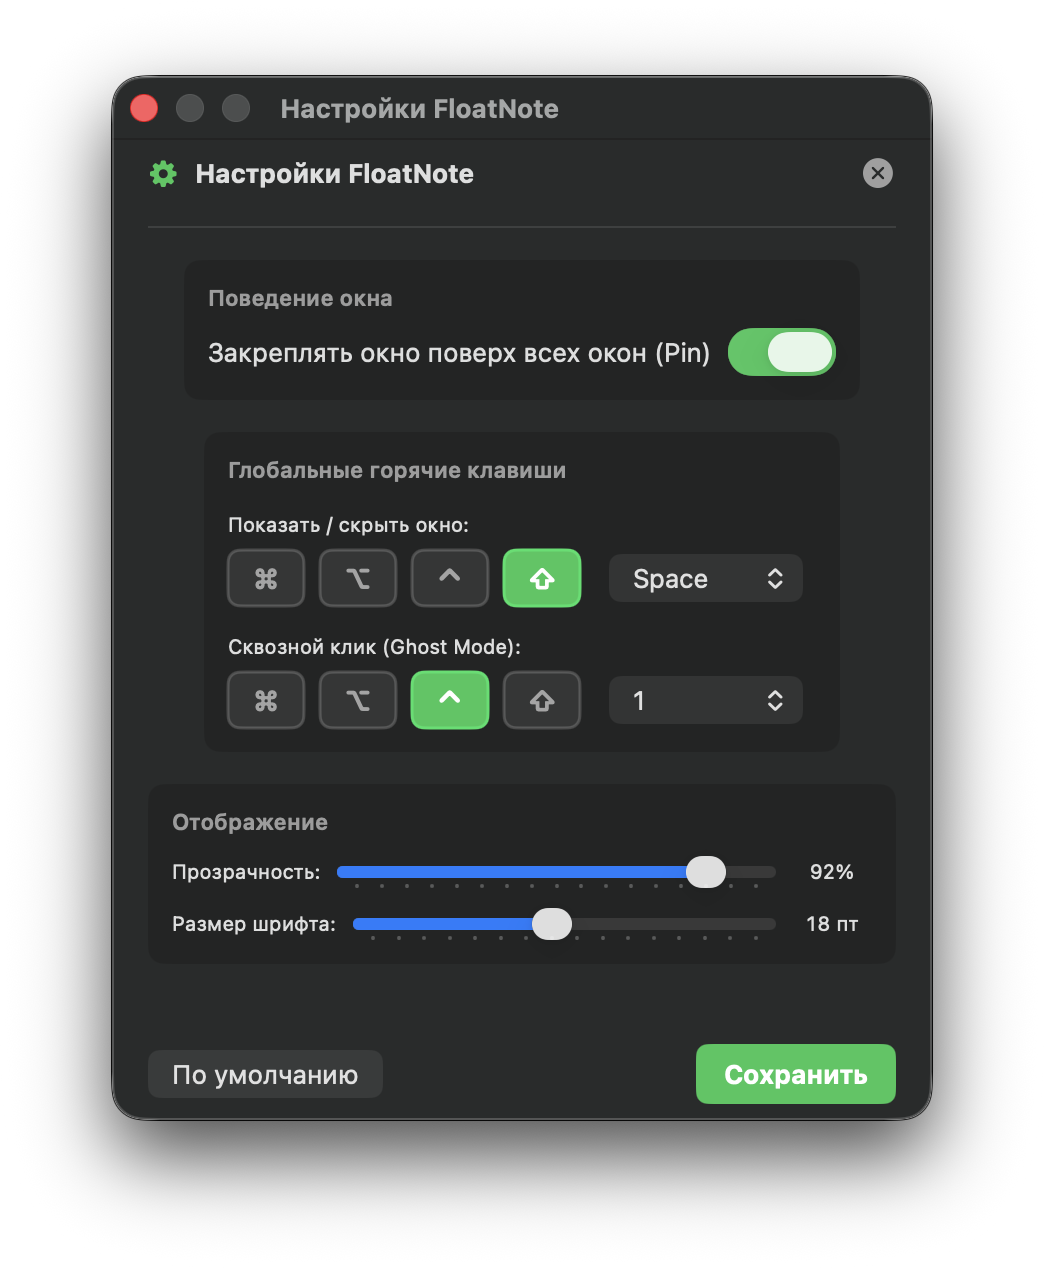
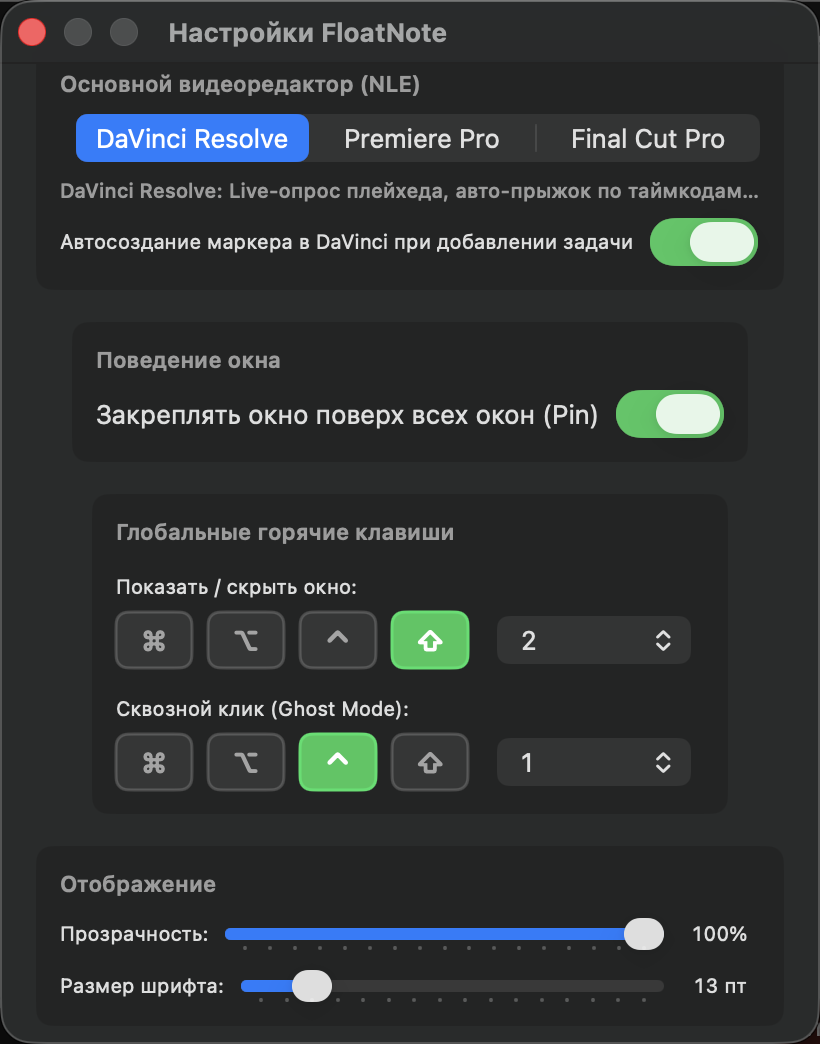
Release v1.2: DaVinci reverse marker sync, macOS window controls, refreshed screenshots & settings UI

diff --git a/Sources/DrawingCanvasView.swift b/Sources/DrawingCanvasView.swift
@@ -604,6 +604,32 @@ struct DrawingCanvasView: View {
                             }
                     )
                     
+                    // Bottom signature watermark overlay
+                    VStack {
+                        Spacer()
+                        HStack(spacing: 6) {
+                            Image(systemName: "heart.fill")
+                                .font(.system(size: 11))
+                                .foregroundColor(Color(red: 1.0, green: 0.35, blue: 0.45))
+                            Text("с любовью by R3yJell")
+                                .font(.system(size: 13, weight: .semibold, design: .rounded))
+                                .foregroundColor(.white.opacity(0.92))
+                                .shadow(color: .black.opacity(0.6), radius: 3, x: 0, y: 1)
+                        }
+                        .padding(.horizontal, 14)
+                        .padding(.vertical, 6)
+                        .background(
+                            Capsule()
+                                .fill(Color.black.opacity(0.45))
+                                .overlay(
+                                    Capsule()
+                                        .stroke(Color.white.opacity(0.18), lineWidth: 1)
+                                )
+                        )
+                        .padding(.bottom, 16)
+                    }
+                    .allowsHitTesting(false)
+                    
                     // Notification Banner
                     if let msg = saveMessage {
                         VStack {
@@ -621,6 +647,9 @@ struct DrawingCanvasView: View {
                 }
                 .onAppear {
                     canvasSize = geo.size
+                    if strokes.isEmpty {
+                        loadInitialArtwork(width: geo.size.width > 50 ? geo.size.width : 475, height: geo.size.height > 50 ? geo.size.height : 360)
+                    }
                 }
                 .modifier(OnChangeCanvasSizeModifier(size: geo.size, onChanged: { newSize in
                     canvasSize = newSize
@@ -702,6 +731,46 @@ struct DrawingCanvasView: View {
                 }
             }
         }
+    }
+    
+    private func loadInitialArtwork(width: CGFloat, height: CGFloat) {
+        guard strokes.isEmpty else { return }
+        
+        let cx = width / 2
+        let cy = height * 0.38
+        let scale = min(width, height) * 0.024
+        
+        var heartPoints: [CGPoint] = []
+        let steps = 120
+        for i in 0...steps {
+            let t = (Double(i) / Double(steps)) * 2 * Double.pi
+            let x = 16 * pow(sin(t), 3)
+            let y = -(13 * cos(t) - 5 * cos(2 * t) - 2 * cos(3 * t) - cos(4 * t))
+            heartPoints.append(CGPoint(x: cx + CGFloat(x) * scale, y: cy + CGFloat(y) * scale))
+        }
+        
+        var newStrokes: [DrawingStroke] = []
+        
+        // Concentric filled rings to form a solid bright red heart
+        let ringSteps = 16
+        for r in stride(from: 1, through: ringSteps, by: 1) {
+            let s = scale * (CGFloat(r) / CGFloat(ringSteps))
+            var ring: [CGPoint] = []
+            for i in 0...steps {
+                let t = (Double(i) / Double(steps)) * 2 * Double.pi
+                let x = 16 * pow(sin(t), 3)
+                let y = -(13 * cos(t) - 5 * cos(2 * t) - 2 * cos(3 * t) - cos(4 * t))
+                ring.append(CGPoint(x: cx + CGFloat(x) * s, y: cy + CGFloat(y) * s))
+            }
+            newStrokes.append(DrawingStroke(
+                tool: .pen,
+                points: ring,
+                color: Color(red: 0.95, green: 0.15, blue: 0.22),
+                lineWidth: 8
+            ))
+        }
+        
+        self.strokes = newStrokes
     }
 }
 

diff --git a/Sources/SettingsView.swift b/Sources/SettingsView.swift
@@ -80,7 +80,7 @@ struct SettingsView: View {
                     .foregroundColor(.secondary)
                 
                 if storage.preferences.targetNLE == .davinci {
-                    Toggle("Автоматически создавать маркер в DaVinci при добавлении задачи с таймкодом", isOn: $storage.preferences.autoCreateMarkers)
+                    Toggle("Автосоздание маркера в DaVinci при добавлении задачи", isOn: $storage.preferences.autoCreateMarkers)
                         .toggleStyle(SwitchToggleStyle(tint: Color(red: 0.18, green: 0.78, blue: 0.35)))
                         .font(.caption)
                 }

diff --git a/CHANGELOG.md b/CHANGELOG.md
@@ -5,6 +5,23 @@
 
 ---
 
+## [1.2] — 2026-09-18
+### 🚀 Новые возможности и улучшения
+- **Двусторонняя синхронизация маркеров с DaVinci Resolve**:
+  - При добавлении задачи с таймкодом в чеклист маркер теперь автоматически создается на таймлайне DaVinci Resolve в нужную секунду и кадр.
+  - На таймлайне маркер получает чистое имя задачи (без скобок и таймкода) и полное примечание.
+  - В каждой строке чеклиста добавлена кнопка быстрой отправки маркера на таймлайн (`mappin.circle.fill`) с визуальной анимацией подтверждения установки `✓`.
+  - В Настройки добавлен тумблер управления автоматическим созданием маркеров.
+- **Стандартные кнопки управления окном macOS**:
+  - В шапку FloatNote добавлены классические круглые кнопки macOS: **Закрыть** (красная с `✕` при наведении) и **Свернуть** (желтая с `—` при наведении).
+  - Плавная анимация проявления глифов при наведении курсора в полном соответствии с гайдлайнами macOS Human Interface Guidelines.
+  - Кнопка Pin теперь отвечает за закрепление окна поверх всех окон (Always on Top), а скрытие/закрытие выполняется нативными кнопками окна.
+- **Модульная архитектура исходного кода**:
+  - Монолитный код разделен на изолированные компоненты: `UIComponents.swift`, `AudioNotesView.swift`, `ChecklistView.swift`, `NotesView.swift`, `NLEBridge.swift`.
+  - Централизованное управление путями хранения через `AppConstants.filesDirectory` (`~/Documents/Давинчи/FloatNote_Files`).
+
+---
+
 ## [1.1.0] — 2026-09-18 — Первый публичный релиз (First Public Release)
 
 > *Первый официальный публичный релиз FloatNote. Все предыдущие версии являлись закрытыми бетами.*  

diff --git a/README.md b/README.md
@@ -10,7 +10,7 @@
 </p>
 
 <p align="center">
-  <img src="https://img.shields.io/badge/version-1.1.0-brightgreen.svg" alt="Version 1.1.0">
+  <img src="https://img.shields.io/badge/version-1.2-brightgreen.svg" alt="Version 1.2">
   <img src="https://img.shields.io/badge/platform-macOS%2013.0+-blue.svg" alt="macOS 13.0+">
   <img src="https://img.shields.io/badge/Swift-6.0-orange.svg" alt="Swift 6">
   <img src="https://img.shields.io/badge/DaVinci%20Resolve-Companion%20Plugin-ff69b4.svg" alt="DaVinci Plugin">
